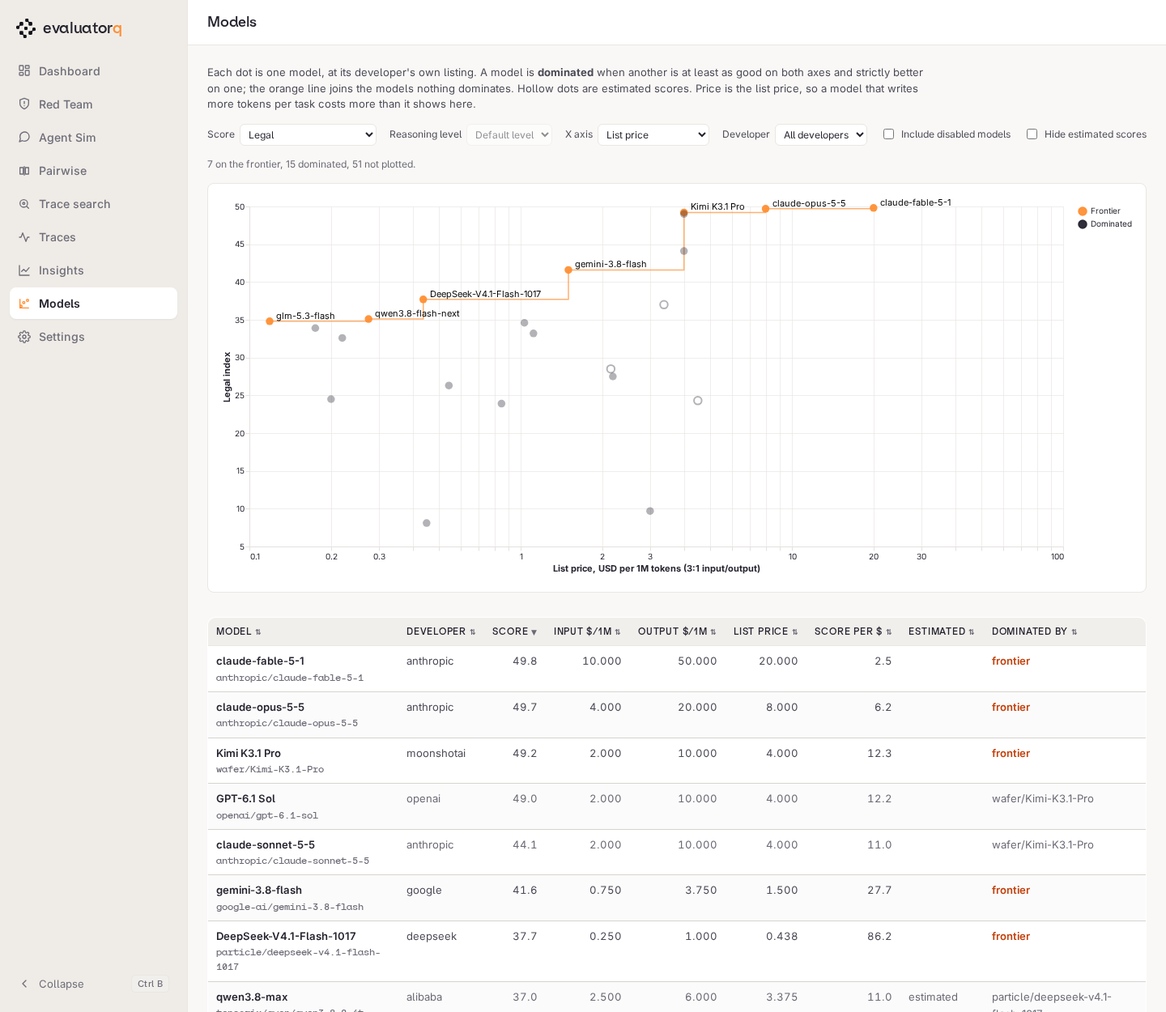
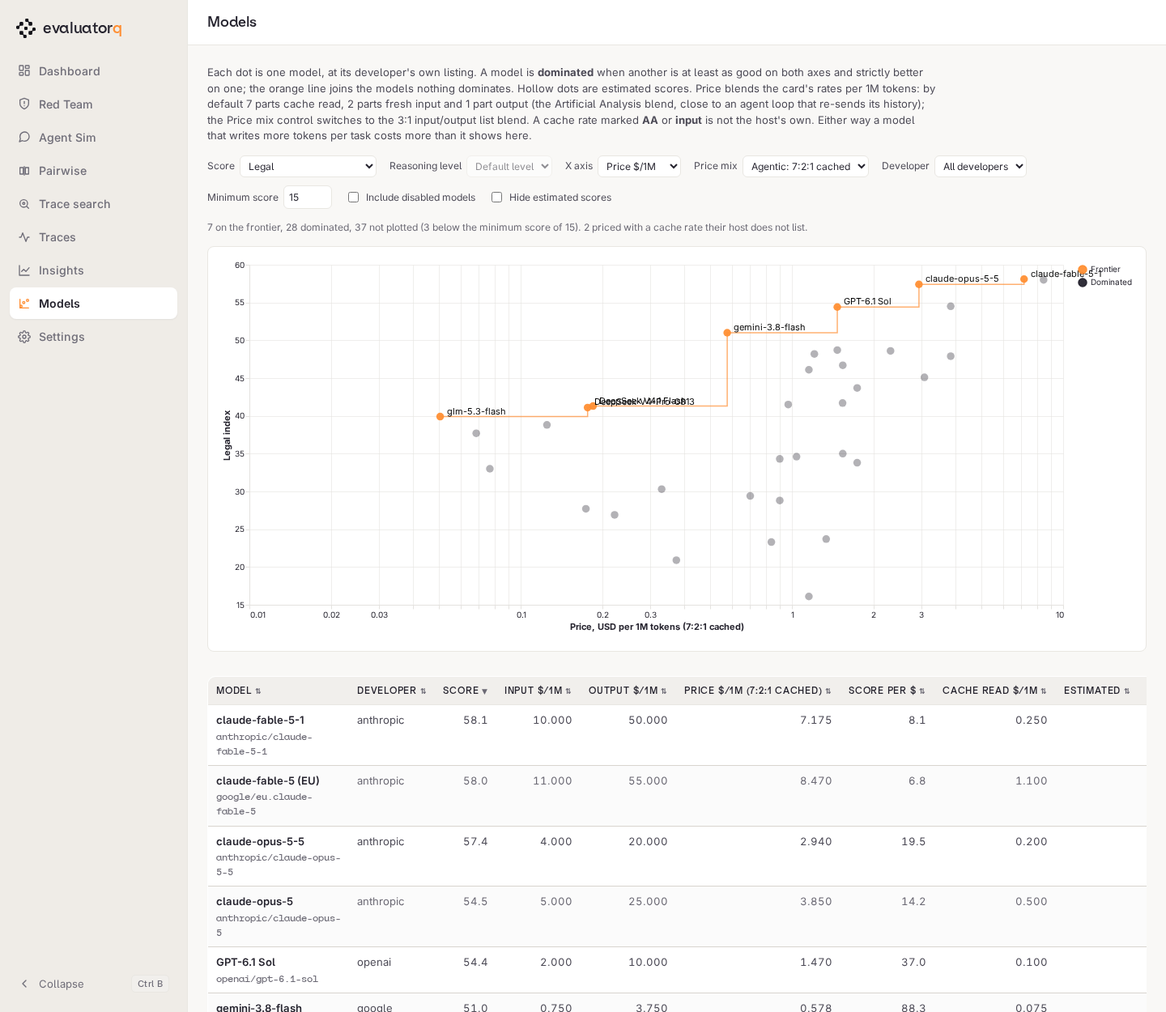
docs: retake Models page screenshots and tighten the Pareto docs
Retake the Models page screenshots on the current defaults (agentic price mix, minimum score 15), add one showing the input fallback tag, and drop the caveat that the screenshots predate the price mix. Refresh the dated CLI outputs and catalogue counts in the Pareto guide to 2026-11-23, replace the dominated-model example that no longer reproduces, correct how the kept listing per model is chosen and which effort domain indices are scored at, and split the dashboard Models section into a controls table with its silent fallbacks named.

diff --git a/docs/model-pareto.md b/docs/model-pareto.md
@@ -31,31 +31,28 @@ The scores are Artificial Analysis (AA) benchmark indices that Orq attaches to e
         print(f"{point.model.router_id} is beaten by {point.dominated_by}")
     ```
 
-The CLI run on 2026-11-20 printed:
+The CLI run on 2026-11-23 printed:
 
 ```console
 $ eq models pareto
-                               Pareto frontier: intelligence index (default effort) vs price
-╭───────────────────────────────────┬───────┬───────────────────────────┬─────────────┬─────────────────┬──────┬──────────╮
-│ Model                             │ Score │ Price $/1M (7:2:1 cached) │ Score per $ │ Cache read $/1M │ Est. │ Frontier │
-├───────────────────────────────────┼───────┼───────────────────────────┼─────────────┼─────────────────┼──────┼──────────┤
-│ anthropic/claude-opus-5-5         │  48.2 │                     2.940 │        16.4 │           0.200 │      │ yes      │
-│ wafer/Kimi-K3.1-Pro               │  46.5 │                     1.540 │        30.2 │           0.200 │      │ yes      │
-│ openai/gpt-6.1-sol                │  46.3 │                     1.470 │        31.5 │           0.100 │      │ yes      │
-│ particle/deepseek-v4.1-flash-1017 │  32.6 │                     0.171 │       190.6 │           0.030 │      │ yes      │
-│ deepseek/deepseek-flash           │  28.6 │                     0.058 │       493.4 │           0.003 │      │ yes      │
-│ zai/glm-5.3-flash                 │  27.8 │                     0.051 │       550.5 │           0.015 │      │ yes      │
-╰───────────────────────────────────┴───────┴───────────────────────────┴─────────────┴─────────────────┴──────┴──────────╯
+                           Pareto frontier: intelligence index (default effort) vs price
+╭───────────────────────────┬───────┬───────────────────────────┬─────────────┬─────────────────┬──────┬──────────╮
+│ Model                     │ Score │ Price $/1M (7:2:1 cached) │ Score per $ │ Cache read $/1M │ Est. │ Frontier │
+├───────────────────────────┼───────┼───────────────────────────┼─────────────┼─────────────────┼──────┼──────────┤
+│ anthropic/claude-opus-5-5 │  51.2 │                     2.940 │        17.4 │           0.200 │      │ yes      │
+│ openai/gpt-6.1-sol        │  47.8 │                     1.470 │        32.5 │           0.100 │      │ yes      │
+│ zai/glm-5.3-flash         │  41.8 │                     0.051 │       827.7 │           0.015 │      │ yes      │
+╰───────────────────────────┴───────┴───────────────────────────┴─────────────┴─────────────────┴──────┴──────────╯
 Price blends the rates per 1M tokens as 7:0:2:1 (cache read : cache write : fresh input : output). Pass --mix list for the 3:1 input/output list blend.
-34 model(s) hidden for scoring below --min-score 15. Pass --min-score 0 to show every model.
-4 model(s) not compared: no value on one of the axes, or filtered out. Use --json for the reason per model.
+16 model(s) hidden for scoring below --min-score 15. Pass --min-score 0 to show every model.
+5 model(s) not compared: no value on one of the axes, or filtered out. Use --json for the reason per model.
 ```
 
-Read the table from the top down: each row is cheaper than the one above it and scores lower. Price is a blend that assumes most input tokens are cache reads, which is what an agent loop looks like; [The price axis](#the-price-axis) explains it and how to switch to the plain 3:1 list blend. `Cache read $/1M` is the cache-read rate the blend used. `Score per $` is the score divided by the price. `Est.` marks a score that Orq estimated from an older benchmark version instead of measuring.
+Read the table from the top down: each row is cheaper than the one above it and scores lower. Price is the `agentic` blend, which assumes most input tokens are cache reads, as in an agent loop. As a `--mix` ratio it is `7:0:2:1`, because the ratio has a cache-write slot second; [The price axis](#the-price-axis) explains the blend and how to switch to the 3:1 list blend. `Cache read $/1M` is the cache-read rate the blend used. Pick from these rows: a dominated model is never the better choice on these two axes, and `--dominated` lists each one with the frontier model that beats it. `Est.` marks a score that Orq estimated from an older benchmark version instead of measuring.
 
 ## The quality floor
 
-Models scoring below 15 are left out before the frontier is drawn. Without the floor, the cheap end of the frontier holds models that are there only because nothing is cheaper: with the floor off and the 3:1 list blend, the frontier adds `tensorix/qwen/qwen3-coder-30b-a3b-instruct` at a score of 2.7 and $0.107 per 1M tokens. 15 is the same floor evaluatorq uses when it picks default models for its own roles, `MIN_SEAT_INDEX`.
+Models scoring below 15 are left out before the frontier is drawn. Without the floor, the cheap end of the frontier can hold models that are there only because nothing is cheaper: on 2026-11-23, with the floor off and the 3:1 list blend, the frontier adds `tensorix/qwen/qwen3-coder-30b-a3b-instruct` at a score of 9.6 and $0.107 per 1M tokens. On the default blend the same day, the frontier was the same three models with or without the floor, so there the floor only removed dominated models from `--dominated`, `--json` and the dashboard chart. 15 is the same floor evaluatorq uses when it picks default models for its own roles, `MIN_SEAT_INDEX`.
 
 Set the floor with `--min-score` or `min_score=`. `--min-score 0` or `min_score=None` shows every model:
 
@@ -82,17 +79,15 @@ $ eq models pareto --min-score 0 --mix list
 ╭────────────────────────────────────────────┬───────┬───────────────────────┬─────────────┬──────┬──────────╮
 │ Model                                      │ Score │ Price $/1M (3:1 list) │ Score per $ │ Est. │ Frontier │
 ├────────────────────────────────────────────┼───────┼───────────────────────┼─────────────┼──────┼──────────┤
-│ anthropic/claude-opus-5-5                  │  48.2 │                 8.000 │         6.0 │      │ yes      │
-│ wafer/Kimi-K3.1-Pro                        │  46.5 │                 4.000 │        11.6 │      │ yes      │
-│ particle/deepseek-v4.1-flash-1017          │  32.6 │                 0.438 │        74.5 │      │ yes      │
-│ deepseek/deepseek-flash                    │  28.6 │                 0.175 │       163.4 │      │ yes      │
-│ zai/glm-5.3-flash                          │  27.8 │                 0.119 │       234.1 │      │ yes      │
-│ tensorix/qwen/qwen3-coder-30b-a3b-instruct │   2.7 │                 0.107 │        25.1 │ yes  │ yes      │
+│ anthropic/claude-opus-5-5                  │  51.2 │                 8.000 │         6.4 │      │ yes      │
+│ openai/gpt-6.1-sol                         │  47.8 │                 4.000 │        11.9 │      │ yes      │
+│ zai/glm-5.3-flash                          │  41.8 │                 0.119 │       352.0 │      │ yes      │
+│ tensorix/qwen/qwen3-coder-30b-a3b-instruct │   9.6 │                 0.107 │        89.3 │      │ yes      │
 ╰────────────────────────────────────────────┴───────┴───────────────────────┴─────────────┴──────┴──────────╯
-4 model(s) not compared: no value on one of the axes, or filtered out. Use --json for the reason per model.
+5 model(s) not compared: no value on one of the axes, or filtered out. Use --json for the reason per model.
 ```
 
-The floor applies to whichever score you put on the y axis, so with `--index legal` it compares legal scores against 15. The domain indices use the same 0 to 100 scale, but AA scores fewer and mostly stronger models on them, so the floor removes fewer: on 2026-11-20 it left out 2 of the 22 models compared on legal, against 34 of the 69 compared on intelligence. The floor does not change which of the remaining models are on the frontier, because a model that beats another one scores at least as high and so clears the floor too.
+The floor applies to whichever score you put on the y axis, so with `--index legal` it compares legal scores against 15. The domain indices use the same 0 to 100 scale, but AA scores fewer and mostly stronger models on them, so the floor removes fewer: on 2026-11-23, after one listing per model, it left out 3 of the 38 models with a legal score and a price, against 16 of the 67 with an intelligence score and a price. The floor does not change which of the remaining models are on the frontier, because a model that beats another one scores at least as high and so clears the floor too.
 
 ## Is my model dominated?
 
@@ -101,7 +96,7 @@ The floor applies to whichever score you put on the y axis, so with `--index leg
 === "CLI"
 
     ```bash
-    eq models pareto --model gpt-6.1-sol --mix list
+    eq models pareto --model claude-sonnet-5-5
     ```
 
 === "Python"
@@ -112,35 +107,36 @@ The floor applies to whichever score you put on the y axis, so with `--index leg
     from evaluatorq.models import dominated_by, find_model, load_models
 
     models = asyncio.run(load_models())
-    mine = find_model(models, model_id="gpt-6.1-sol")
+    mine = find_model(models, model_id="claude-sonnet-5-5")
     if mine is None:
         raise SystemExit("unknown id, or held by more than one host")
-    winner = dominated_by(mine, models, mix="list")
+    winner = dominated_by(mine, models)
     print(winner.router_id if winner else "on the frontier")
     ```
 
 ```console
-$ eq models pareto --model gpt-6.1-sol --mix list
-                 Dominated models: intelligence index (default effort) vs price
-╭────────────────────┬───────┬───────────────────────┬─────────────┬──────┬─────────────────────╮
-│ Model              │ Score │ Price $/1M (3:1 list) │ Score per $ │ Est. │ Dominated by        │
-├────────────────────┼───────┼───────────────────────┼─────────────┼──────┼─────────────────────┤
-│ openai/gpt-6.1-sol │  46.3 │                 4.000 │        11.6 │      │ wafer/Kimi-K3.1-Pro │
-╰────────────────────┴───────┴───────────────────────┴─────────────┴──────┴─────────────────────╯
-34 model(s) hidden for scoring below --min-score 15. Pass --min-score 0 to show every model.
-4 model(s) not compared: no value on one of the axes, or filtered out. Use --json for the reason per model.
+$ eq models pareto --model claude-sonnet-5-5
+                                Dominated models: intelligence index (default effort) vs price
+╭─────────────────────────────┬───────┬───────────────────────────┬─────────────┬─────────────────┬──────┬────────────────────╮
+│ Model                       │ Score │ Price $/1M (7:2:1 cached) │ Score per $ │ Cache read $/1M │ Est. │ Dominated by       │
+├─────────────────────────────┼───────┼───────────────────────────┼─────────────┼─────────────────┼──────┼────────────────────┤
+│ anthropic/claude-sonnet-5-5 │  46.8 │                     1.470 │        31.8 │           0.100 │      │ openai/gpt-6.1-sol │
+╰─────────────────────────────┴───────┴───────────────────────────┴─────────────┴─────────────────┴──────┴────────────────────╯
+Price blends the rates per 1M tokens as 7:0:2:1 (cache read : cache write : fresh input : output). Pass --mix list for the 3:1 input/output list blend.
+16 model(s) hidden for scoring below --min-score 15. Pass --min-score 0 to show every model.
+5 model(s) not compared: no value on one of the axes, or filtered out. Use --json for the reason per model.
 ```
 
-The model named under `Dominated by` is the frontier model that beats yours at the lowest price. Here it wins by 0.2 points at the same list price. On the default cache-aware blend the answer flips: GPT-6.1 Sol's cache reads cost 5% of its input rate against 10% for Kimi K3.1 Pro on `wafer`, so it is $1.470 against $1.540 and back on the frontier. Which blend you read decides the verdict, so pick the one that matches how you call the model. Dominance has no margin: any difference counts, so a model can be dominated by a score gap smaller than the benchmark's own noise. Check the gap before you switch.
+The model named under `Dominated by` is the frontier model that beats yours at the lowest price. Here GPT-6.1 Sol scores 1.0 point higher at the same price, $1.470 on the default blend and $4.000 on the list blend. The verdict can change with the blend, because two models with the same list price can have different cache-read rates, so run `--model` under the mix that matches how you call the model. Dominance has no margin: any difference counts, so a model can be dominated by a score gap smaller than the benchmark's own noise. A 1.0-point gap, as here, may be that case. Check the gap before you switch.
 
 The flags combine. To ask the same question on the legal index and get JSON for a script:
 
 ```bash
-eq models pareto --model gpt-6.1-sol --index legal --json
+eq models pareto --model claude-sonnet-5-5 --index legal --json
 ```
 
 ```console
-$ eq models pareto --model gpt-6.1-sol --index legal --json 2>/dev/null
+$ eq models pareto --model claude-sonnet-5-5 --index legal --json 2>/dev/null
 {
   "index": "legal",
   "effort": null,
@@ -150,30 +146,30 @@ $ eq models pareto --model gpt-6.1-sol --index legal --json 2>/dev/null
   "min_score": 15.0,
   "points": [
     {
-      "router_id": "openai/gpt-6.1-sol",
-      "score": 49.0,
+      "router_id": "anthropic/claude-sonnet-5-5",
+      "score": 48.7,
       "x": 1.47,
-      "pareto_score": 33.333333333333336,
-      "on_frontier": true,
-      "dominated_by": null,
-      "dominators": [],
+      "pareto_score": 33.12925170068027,
+      "on_frontier": false,
+      "dominated_by": "google-ai/gemini-3.8-flash",
+      "dominators": ["google-ai/gemini-3.8-flash", "openai/gpt-6.1-sol"],
       "cache_read_source": "host",
       "cache_write_source": null
     }
   ],
   "excluded": [
     {"router_id": "alibaba/qwen3.5-27b", "reason": "no legal score", "below_min_score": false},
-    {"router_id": "cerebras/gpt-oss-120b", "reason": "score 8.1 is below min_score 15", "below_min_score": true}
+    {"router_id": "cerebras/gpt-oss-120b", "reason": "score 11.3 is below min_score 15", "below_min_score": true}
   ],
   "left_out_by_provider": 0
 }
 ```
 
-The output above is trimmed: each point also carries every `ScoredModel` field (prices including `cache_read_price` and `aa_cache_read_price`, developer, effort ladder, domain scores, speed and latency) and `price`, which is always the 3:1 list blend whatever `mix` says, and `excluded` lists every model left out, with `below_min_score` set on the ones the quality floor removed. The JSON lists only the models you asked for; `dominators` names the winners but does not carry their scores. Run without `--model` to see the winner's row. Log lines go to stderr, so `2>/dev/null` leaves clean JSON on stdout.
+Read `x` for the blended price. Each point also carries a `price` field, and `price` is always the 3:1 list blend whatever `mix` says. The output above is trimmed: each point also carries every `ScoredModel` field (prices including `cache_read_price` and `aa_cache_read_price`, developer, effort ladder, domain scores, speed and latency), and `excluded` lists every model left out, with `below_min_score` set on the ones the quality floor removed. The JSON lists only the models you asked for; `dominators` names the winners but does not carry their scores. Run without `--model` to see the winner's row. Log lines go to stderr, so `2>/dev/null` leaves clean JSON on stdout.
 
-A model below the floor is not compared, so `--model` with it prints `<id> is not plotted: score <n> is below min_score 15.` on stderr; add `--min-score 0` to compare it. `dominated_by()` in Python applies no floor.
+A model below the floor is not compared, so `--model` with it prints `<id> is not plotted: score <n> is below min_score 15.` on stderr and `No models on the frontier for these filters.` on stdout; add `--min-score 0` to compare it. `dominated_by()` in Python applies no floor.
 
-A bare id such as `gpt-6.1-sol` must match exactly one model; otherwise the CLI exits `2` and `find_model` returns `None`. `--model` only sees the one listing kept per model (see [One dot per model](#one-dot-per-model)), so the full id of a host that was not kept also exits `2`. Comparing a specific host is Python-only, through `load_models(all_hosts=True)`.
+A bare id such as `gpt-6.1-sol` must match exactly one model; otherwise the CLI exits `2` and `find_model` returns `None`. A bare id works only for a two-part id such as `openai/gpt-6.1-sol`: for a three-part id such as `tensorix/qwen/qwen3-coder-30b-a3b-instruct`, pass the full id. `--model` only sees the one listing kept per model (see [One dot per model](#one-dot-per-model)), so the full id of a host that was not kept also exits `2`. Comparing a specific host is Python-only, through `load_models(all_hosts=True)`.
 
 ## Choosing the axes
 
@@ -193,7 +189,7 @@ eq models pareto --effort high --x output_speed --no-estimate
 
 `price` blends the card's rates per million tokens under `--mix` (see [The price axis](#the-price-axis)). `output_speed` is AA's median output tokens per second, and `time_to_first_token` is AA's median seconds to the first token.
 
-A domain index covers only the models AA has scored on it (25 of 73 for `legal` on 2026-11-20), and only at each model's default effort, so `--index legal --effort high` is refused. Fewer scored models also means fewer competitors: on 2026-11-20 at the default floor, a model on `legal` was compared against 19 others, against 34 on `intelligence`. Under `--effort`, models that list no score at that effort drop out of the comparison.
+A domain index covers only the models AA has scored on it (38 of the 72 models kept for `legal` on 2026-11-23, against 67 for `intelligence`), and only at one effort per model, the one Artificial Analysis benchmarked, which for some reasoning models is higher than the effort a call uses by default. `--index legal --effort high` is therefore refused. Under `--effort`, models that list no score at that effort drop out of the comparison.
 
 The CLI refuses an index or an effort that no loaded model has a score on and exits `2`, and the dashboard lists only the indices and efforts some model has. `pareto()` in Python accepts them and lists every model under `excluded`.
 
@@ -208,6 +204,8 @@ The price axis is a weighted average of a card's rates per million tokens. `--mi
 | `READ:WRITE:FRESH:OUTPUT`, such as `7:1:1:1` | (R × cache read + W × cache write + F × input + O × output) / (R + W + F + O) | `Price $/1M (7:1:1:1)` | You know your own token mix, or your provider charges for cache writes |
 
 `agentic` is the blend [Artificial Analysis](https://artificialanalysis.ai/methodology) publishes: "we calculate a blended price assuming a 7:2:1 ratio of cache hit, input, and output tokens". It is the default because an agent loop sends its whole history again on every turn, and the provider serves most of that history from its prompt cache at a fraction of the input rate. Measured agent workloads cache more than 70% of input: 72% to 82% of all input on one gateway across twelve weeks ([Requesty](https://www.requesty.ai/data/weekly/2026-w46/prompt-cache)), 92% for Claude Code on the same gateway ([Requesty, April 2026](https://www.requesty.ai/data/coding-agent-cache-hit-rate-apr-2026)), 92% in [Bun's Rust rewrite](https://bun.com/blog/bun-in-rust), and 96% in a study of Claude Code repairing multi-hunk bugs ([arXiv 2511.11012](https://arxiv.org/html/2511.11012)). The 3:1 list blend prices every one of those re-sent tokens at the full input rate, so it overstates what an agent pays and hides which models have cheap cache reads.
+
+In those terms, 7:2:1 means 78% of input tokens are cache reads and output is 10% of all tokens. For your own cache-hit rate `h`, the matching ratio is `9h:0:9(1-h):1`; at 90% that is `--mix 8.1:0:0.9:1`.
 
 === "CLI"
 
@@ -229,25 +227,22 @@ The price axis is a weighted average of a card's rates per million tokens. `--mi
         print(result.x_spec.short_label, [p.model.router_id for p in result.frontier])
     ```
 
-A mix with a write share adds a `Cache write $/1M` column. On 2026-11-20 it printed:
+A mix with a write share adds a `Cache write $/1M` column. On 2026-11-23 it printed:
 
 ```console
 $ eq models pareto --mix 7:1:1:1
                                   Pareto frontier: intelligence index (default effort) vs price
-╭────────────────────────────┬───────┬──────────────────────┬─────────────┬─────────────────┬──────────────────┬──────┬──────────╮
-│ Model                      │ Score │ Price $/1M (7:1:1:1) │ Score per $ │ Cache read $/1M │ Cache write $/1M │ Est. │ Frontier │
-├────────────────────────────┼───────┼──────────────────────┼─────────────┼─────────────────┼──────────────────┼──────┼──────────┤
-│ anthropic/claude-opus-5-5  │  48.2 │                3.040 │        15.9 │           0.200 │            5.000 │      │ yes      │
-│ wafer/Kimi-K3.1-Pro        │  46.5 │                1.540 │        30.2 │           0.200 │    2.000 (input) │      │ yes      │
-│ openai/gpt-6.1-sol         │  46.3 │                1.520 │        30.5 │           0.100 │            2.500 │      │ yes      │
-│ particle/deepseek-v4.1-fl… │  32.6 │                0.171 │       190.6 │           0.030 │    0.250 (input) │      │ yes      │
-│ deepseek/deepseek-flash    │  28.6 │                0.058 │       493.4 │           0.003 │    0.140 (input) │      │ yes      │
-│ zai/glm-5.3-flash          │  27.8 │                0.051 │       550.5 │           0.015 │    0.075 (input) │      │ yes      │
-╰────────────────────────────┴───────┴──────────────────────┴─────────────┴─────────────────┴──────────────────┴──────┴──────────╯
+╭───────────────────────────┬───────┬──────────────────────┬─────────────┬─────────────────┬──────────────────┬──────┬──────────╮
+│ Model                     │ Score │ Price $/1M (7:1:1:1) │ Score per $ │ Cache read $/1M │ Cache write $/1M │ Est. │ Frontier │
+├───────────────────────────┼───────┼──────────────────────┼─────────────┼─────────────────┼──────────────────┼──────┼──────────┤
+│ anthropic/claude-opus-5-5 │  51.2 │                3.040 │        16.8 │           0.200 │            5.000 │      │ yes      │
+│ openai/gpt-6.1-sol        │  47.8 │                1.520 │        31.4 │           0.100 │            2.500 │      │ yes      │
+│ zai/glm-5.3-flash         │  41.8 │                0.051 │       827.7 │           0.015 │    0.075 (input) │      │ yes      │
+╰───────────────────────────┴───────┴──────────────────────┴─────────────┴─────────────────┴──────────────────┴──────┴──────────╯
 Price blends the rates per 1M tokens as 7:1:1:1 (cache read : cache write : fresh input : output). Pass --mix list for the 3:1 input/output list blend.
-4 shown model(s) price a cache rate their host does not list: (AA) is the Artificial Analysis price on the same card, (input) bills those tokens at the input rate.
-34 model(s) hidden for scoring below --min-score 15. Pass --min-score 0 to show every model.
-4 model(s) not compared: no value on one of the axes, or filtered out. Use --json for the reason per model.
+1 shown model(s) price a cache rate their host does not list: (AA) is the Artificial Analysis price on the same card, (input) bills those tokens at the input rate.
+16 model(s) hidden for scoring below --min-score 15. Pass --min-score 0 to show every model.
+5 model(s) not compared: no value on one of the axes, or filtered out. Use --json for the reason per model.
 ```
 
 The ratio `7:0:2:1` is the `agentic` blend and `0:0:3:1` is the `list` blend, so either spelling gets the named label. Every price blend is relabelled, in the table header, the dashboard axis and `x_label` in `--json`, so a number never appears without the blend it was computed under.
@@ -262,22 +257,22 @@ A host that lists no cache-read rate is priced from the next source on the same 
 | The Artificial Analysis cache price on the same card | `(AA)` | `artificial_analysis` | The developer's own or the median price across hosts, capped at this host's input rate |
 | Neither | `(input)` | `input` | The input rate, as if the host gave no discount; this is also what a run's reported cost bills |
 
-A cache-write share uses the host's cache-write rate, else the input rate, marked the same way in `cache_write_source`. The table footer counts the marked rows, and `ParetoResult.price_fallbacks` lists them in Python:
+A cache-write share uses the host's cache-write rate, else the input rate, marked the same way in `cache_write_source`. The marker sits on the cell it applies to: in the `7:1:1:1` output above, `0.075 (input)` is in the `Cache write $/1M` column, so `zai/glm-5.3-flash`'s cache-read rate is its host's own. The table footer counts the marked rows, and `ParetoResult.price_fallbacks` lists them in Python:
 
 ```console
 $ eq models pareto --provider azure --min-score 0
-                      Pareto frontier: intelligence index (default effort) vs price
-╭──────────────────┬───────┬───────────────────────────┬─────────────┬─────────────────┬──────┬──────────╮
-│ Model            │ Score │ Price $/1M (7:2:1 cached) │ Score per $ │ Cache read $/1M │ Est. │ Frontier │
-├──────────────────┼───────┼───────────────────────────┼─────────────┼─────────────────┼──────┼──────────┤
-│ azure/gpt-5-mini │   9.3 │                     0.267 │        34.8 │      0.025 (AA) │ yes  │ yes      │
-╰──────────────────┴───────┴───────────────────────────┴─────────────┴─────────────────┴──────┴──────────╯
+                     Pareto frontier: intelligence index (default effort) vs price
+╭───────────────┬───────┬───────────────────────────┬─────────────┬─────────────────┬──────┬──────────╮
+│ Model         │ Score │ Price $/1M (7:2:1 cached) │ Score per $ │ Cache read $/1M │ Est. │ Frontier │
+├───────────────┼───────┼───────────────────────────┼─────────────┼─────────────────┼──────┼──────────┤
+│ azure/gpt-4.1 │  12.7 │                     1.550 │         8.2 │      0.500 (AA) │      │ yes      │
+╰───────────────┴───────┴───────────────────────────┴─────────────┴─────────────────┴──────┴──────────╯
 Price blends the rates per 1M tokens as 7:0:2:1 (cache read : cache write : fresh input : output). Pass --mix list for the 3:1 input/output list blend.
 1 shown model(s) price a cache rate their host does not list: (AA) is the Artificial Analysis price on the same card, (input) bills those tokens at the input rate.
 70 model(s) from other providers left out by --provider.
 ```
 
-On 2026-11-20, 106 of the 119 priced models with a score list their own cache-read rate, 7 fall back to the Artificial Analysis price and 6 to the input rate. With one listing per model and the default floor, none of the plotted models falls back. A missing rate is often a catalogue gap rather than a real price: Azure OpenAI does discount cached input, but its cards list no cache rate.
+On 2026-11-23, across every host, 108 of the 119 listings with a price and an intelligence score list their own cache-read rate, 6 fall back to the Artificial Analysis price and 5 to the input rate. With one listing per model and the default floor, 4 of the 51 compared models fall back on the cache-read rate, all to the input rate, and all of them Qwen models; the CLI footer counts only the rows it prints, while the dashboard summary counts every plotted model. A missing rate is often a catalogue gap rather than a real price: Azure OpenAI does discount cached input, but its cards list no cache rate.
 
 ### What the blend cannot see
 
@@ -288,12 +283,12 @@ Each of these makes the `agentic` price wrong for some workloads, and none of th
 - **Anthropic caches only what you mark.** Without `cache_control` breakpoints (or Anthropic's automatic top-level one), a Claude call pays full input on every turn. OpenAI, Gemini 2.5 and newer, and DeepSeek cache automatically.
 - **Cache writes cost extra on some providers.** Anthropic bills a 5-minute cache write at 1.25 times the input rate and a 1-hour write at 2 times; the default blend has no write share. Use a ratio with one, such as `7:1:1:1`, for a write-heavy loop.
 - **Gemini's cache-write rate is a storage price.** On about 13 Gemini cards the catalogue's cache-write field holds Google's hourly storage price per million tokens, not a per-token write charge, so any mix with a write share overprices those models. The default mix has no write share and is not affected.
-- **Hosts of the same model price caching differently.** Kimi K3.1 Pro costs $0.20 per million cache reads on `wafer`, and `berget` lists no cache rate at all, so the frontier can pick a host and not only a model.
-- **Off-peak and long-context rates are ignored.** DeepSeek halves its rates off-peak, and some providers charge more above 200k tokens; the blend reads only the standard rate.
+- **Hosts of the same model price caching differently, and the kept listing ignores the cache rate.** On 2026-11-23, `gpt-oss-120b` cost $0.35 per million cache reads on `cerebras` against $0.075 on `groq`, so $0.390 against $0.143 on the default blend, yet the CLI and the dashboard keep the `cerebras` listing because the catalogue names `cerebras` as that card's developer (see [One dot per model](#one-dot-per-model)). Compare hosts in Python with `load_models(all_hosts=True)`.
+- **Time-of-day and long-context rates are averaged or ignored.** DeepSeek V4 Pro and DeepSeek Flash bill a peak rate on weekday UTC hours and half that otherwise; the blend uses the mean of the two, so a workload that runs entirely off-peak pays less than it shows. Some providers charge more above 200k tokens, and the blend reads only the standard rate.
 
 ## One dot per model
 
-The catalogue lists the same model several times, once per host and region. `load_models()` keeps one listing per model: the developer's own listing when there is one, otherwise the cheapest host, preferring non-regional ones. `load_models(all_hosts=True)` keeps every listing, which is how you compare hosts of one model against each other.
+The catalogue lists the same model several times, once per host and region. `load_models()` keeps one listing per model: the developer's own listing when there is one; otherwise a listing without a region before a regional one, and then the cheapest 3:1 list price, whatever `--mix` says. The cache rate plays no part in the choice. `load_models(all_hosts=True)` keeps every listing, which is how you compare hosts of one model against each other.
 
 Models switched off in your workspace are left out. Pass `--include-disabled` or `include_disabled=True` to compare them as well.
 

diff --git a/docs/cli-reference/models.md b/docs/cli-reference/models.md
@@ -1,8 +1,8 @@
 # Models (`eq models`)
 
-`eq models pareto` compares the models in the Orq catalogue on a score against a cost and prints the ones nothing beats, or the ones that are beaten and by what. It reads the live catalogue, so it needs `ORQ_API_KEY` or an Orq CLI sign-in.
+`eq models pareto` compares the models in the Orq catalogue on a score against a cost and prints the ones nothing beats, or the ones that are beaten and by what. It reads the live catalogue, so it needs `ORQ_API_KEY` or an Orq CLI sign-in. Reach for it to rule models out before you test the rest on your own task; it does not pick among the frontier models.
 
-For what the frontier means, how to read the output and where a blended price misleads, see [Model Pareto frontier](../model-pareto.md). This page covers the command only. To list catalogue models, use `orq models list`; evaluatorq does not duplicate it.
+For what the frontier means, how to read the output and where a blended price misleads, see [Model Pareto frontier](../model-pareto.md). To list catalogue models, use `orq models list`; evaluatorq does not duplicate it.
 
 ```bash
 eq models pareto [OPTIONS]
@@ -12,17 +12,19 @@ eq models pareto [OPTIONS]
 |---|---|---|
 | `--dominated` | `bool` / `false` | List dominated models and the frontier model that beats each, instead of the frontier. |
 | `--provider` | `str` (repeatable) | Compare only models from this provider or developer, such as `openai`. Case and an `-ai` suffix are ignored, so `google` also matches `google-ai`. |
-| `--model` | `str` (repeatable) | Show only this model, compared against every other model in the comparison. A `provider/model` id, or a bare id held by exactly one model, looked up in the whole catalogue. Shown whether it is on the frontier or not. |
+| `--model` | `str` (repeatable) | Show only this model, compared against every other model in the comparison. A `provider/model` id, or a bare id held by exactly one model, looked up among the one listing kept per model before `--provider` filters. A three-part id such as `tensorix/qwen/qwen3-coder-30b-a3b-instruct` needs the full id. Shown whether it is on the frontier or not. |
 | `--effort` | `str` / none | Score the intelligence index at this reasoning effort instead of each model's default. Only with `--index intelligence`, and only an effort at least one catalogue model has a score at. |
 | `--index` | `str` / `intelligence` | The y axis: `intelligence`, `economics`, `engineering`, `finance_and_accounting`, `healthcare_and_medical`, `legal` or `strategy_and_ops`. An index no catalogue model has a score on is refused. |
 | `--x` | `str` / `price` | The x axis: `price` (blended price per million tokens, see `--mix`), `output_speed` or `time_to_first_token`. |
-| `--mix` | `str` / `agentic` | How `--x price` blends a card's rates. `agentic`: 7 cache read : 2 fresh input : 1 output, the Artificial Analysis blend. `list`: 3 input : 1 output. Or a `READ:WRITE:FRESH:OUTPUT` ratio such as `7:1:1:1`. A share with a positive read or write weight adds a `Cache read $/1M` or `Cache write $/1M` column, where `(AA)` marks the Artificial Analysis price used because the host lists none and `(input)` marks the input rate used because the card has no cache price. Refused with any other `--x`. |
+| `--mix` | `str` / `agentic` | How `--x price` blends a card's rates. `agentic`: 7 cache read : 2 fresh input : 1 output, the Artificial Analysis blend, which is `7:0:2:1` as a ratio. `list`: 3 input : 1 output. Or a `READ:WRITE:FRESH:OUTPUT` ratio such as `7:1:1:1`. A share with a positive read or write weight adds a `Cache read $/1M` or `Cache write $/1M` column, where `(AA)` marks the Artificial Analysis price used because the host lists none and `(input)` marks the input rate used because the card has no cache price. Refused with any other `--x`. |
 | `--include-disabled` | `bool` / `false` | Include models switched off in the workspace. |
 | `--no-estimate` | `bool` / `false` | Leave out models whose score Orq estimated rather than measured. |
 | `--min-score` | `float` / `15` | Hide models scoring below this on the chosen index; they are listed under `excluded` with the reason `score <n> is below min_score <floor>`. `0` shows every model. Must be `0` or more. |
-| `--json` | `bool` / `false` | Print `{index, effort, x, x_label, mix, min_score, points, excluded, left_out_by_provider}` as JSON on stdout. `mix` is `null` off the price axis; each point carries `cache_read_source` and `cache_write_source` (`host`, `artificial_analysis`, `input`, or `null` when the mix has no share of that kind). |
+| `--json` | `bool` / `false` | Print `{index, effort, x, x_label, mix, min_score, points, excluded, left_out_by_provider}` as JSON on stdout. `points` holds the rows the table would print: the frontier, the dominated models with `--dominated`, or the `--model` matches; `excluded` lists every model left out. Read `x` for the plotted value: a point's `price` is always the 3:1 list blend. `mix` is `null` off the price axis; each point carries `cache_read_source` (`host`, `artificial_analysis` or `input`) and `cache_write_source` (`host` or `input`), each `null` when the mix has no share of that kind. |
 
 `--provider` narrows the comparison itself: a model is then only checked against models from the same providers, so a model dominated in the full catalogue can be on the frontier of a filtered one. `--model` does the opposite: it narrows only what is printed. With both, the named model joins the comparison even when `--provider` would leave it out, and the output counts the models `--provider` left out.
+
+The table fits the terminal width, so a narrow terminal or a non-interactive shell cuts model ids short with `…`. Set `COLUMNS=200` or use `--json` in a script.
 
 ## Examples
 
@@ -56,6 +58,6 @@ eq models pareto --effort high --x output_speed --no-estimate
 
 | Code | Meaning |
 |---|---|
-| `0` | The analysis ran. An empty result is still `0`: a `--model` match left out of the comparison prints `<id> is not plotted: <reason>.` on stderr and an empty table. |
+| `0` | The analysis ran. An empty result is still `0`: a `--model` match left out of the comparison prints `<id> is not plotted: <reason>.` on stderr and `No models on the frontier for these filters.` (`No models dominated for these filters.` with `--dominated`) on stdout. |
 | `1` | The catalogue could not be read: no Orq credentials, or the request failed. |
 | `2` | A usage error: an unknown `--index`, `--x` or `--mix`, `--mix` with an `--x` other than `price`, an `--index` no catalogue model has a score on, an `--effort` no catalogue model has a score at, `--effort` with a domain index, or a `--model` that matches no model or more than one, or a negative or non-finite `--min-score`. |

diff --git a/docs/dashboard.md b/docs/dashboard.md
@@ -475,13 +475,34 @@ Download links respect the currently active filter state — the CSV/JSON export
 
 The **Models** page plots every model in the Orq catalogue as one dot, score against a blended price, and joins the models nothing beats with an orange line: the Pareto frontier. It reads the live catalogue, so it needs the same Orq account as trace search. Without one, the sidebar item is greyed out and the page says how to connect.
 
-![Models page: intelligence index against list price, frontier in orange](assets/dashboard/models-01-frontier.png)
+![Models page on the default agentic price mix and minimum score of 15: three models on the frontier](assets/dashboard/models-01-frontier.png)
 
-The selects above the chart change the score (intelligence or a domain index such as legal), the reasoning effort, the x axis (price, output speed or time to first token), the price mix and the developer. **Price mix** picks how price blends a card's rates: **Agentic: 7:2:1 cached** (the default; 7 parts cache read, 2 parts fresh input, 1 part output, the Artificial Analysis blend) or **List: 3:1 input/output**. It is greyed out on the other x axes. For your own ratio, add `?mix=7:1:1:1` (cache read : cache write : fresh input : output) to the page address; it appears in the select as **Custom**. The axis title and the table header name the blend in use. On a blend with a cache-read share, the table adds a **Cache read $/1M** column; an **AA** tag marks a rate taken from the Artificial Analysis price because the host lists none, an **input** tag marks a card with no cache price, billed at the input rate, and the summary line counts both. The score and effort selects list only the indices and efforts at least one loaded model has a score on. **Minimum score** hides models scoring below it on the chosen score, 15 by default, and the summary line counts how many it hid; set it to `0` to plot every model. **Include disabled models** adds models switched off in the workspace. Hollow dots are scores Orq estimated rather than measured; **Hide estimated scores** drops them. The table below lists every plotted model with its prices, score per dollar and, for a dominated model, the frontier model that beats it. Click a column header to sort.
+The controls above the chart:
 
-![Models page on the legal index: fewer models carry a score, so most are not plotted](assets/dashboard/models-02-legal.png)
+| Control | What it does | Default |
+|---|---|---|
+| **Score** | Intelligence or a domain index such as legal. Lists only the indices at least one loaded model has a score on. | Intelligence |
+| **Reasoning level** | Scores intelligence at one reasoning effort. Greyed out on a domain index. | Each model's default |
+| **X axis** | Price, output speed or time to first token. | Price |
+| **Price mix** | **Agentic: 7:2:1 cached** (7 parts cache read, 2 parts fresh input, 1 part output) or **List: 3:1 input/output**. Greyed out on the other x axes. | Agentic |
+| **Developer** | Plots one developer's models. | All developers |
+| **Minimum score** | Hides models scoring below it on the chosen score; `0` plots every model. | 15 |
+| **Include disabled models** | Adds models switched off in the workspace. | Off |
+| **Hide estimated scores** | Drops the hollow dots, which are scores Orq estimated rather than measured. | Off |
 
-The screenshots above predate the price mix: they show the 3:1 list blend, without the **Price mix** select or the cache-read column. The page and `eq models pareto` compute the same thing. What the frontier means, how the blend works and where it misleads is in [Model Pareto frontier](model-pareto.md#the-price-axis).
+For your own price ratio, add `?mix=7:1:1:1` (cache read : cache write : fresh input : output) to the page address; it appears in the select as **Custom**. A value the page cannot read, in `?mix=` or `?min_score=`, silently falls back to the default, so check that the axis title names the blend you asked for. The axis title and the table header always name the blend in use.
+
+The summary line under the controls counts the frontier, the dominated models, the models not plotted and how many of those the minimum score hid. Set the minimum score to `0` when a model you expected is missing.
+
+The table below the chart lists every plotted model with its prices, score per dollar and, for a dominated model, the frontier model that beats it. Click a column header to sort. To check one model, find its row: **Dominated by** names the model that beats it, and the page has no single-model view, which `eq models pareto --model` gives. On a blend with a cache-read share it adds a **Cache read $/1M** column. An **AA** tag in that column marks a rate taken from the Artificial Analysis price because the host lists none, and an **input** tag marks a card with no cache price, billed at the input rate. The summary line counts the tagged models, and on a custom mix with a write share the count includes cache-write fallbacks, which the page has no column for. Filtering to the alibaba developer shows Qwen models billed at the input rate; the first two of four are in view below the chart:
+
+![Models page filtered to alibaba: the table tags Qwen cache-read rates with input](assets/dashboard/models-03-fallback.png)
+
+On a domain index such as legal, Artificial Analysis has scored fewer models, so the chart is sparser:
+
+![Models page on the legal index: fewer models carry a legal score, so about half are not plotted](assets/dashboard/models-02-legal.png)
+
+The page and `eq models pareto` compute the same thing. What the frontier means, how the blend works and where it misleads is in [Model Pareto frontier](model-pareto.md#the-price-axis).
 
 ## Where to next
 

diff --git a/docs/assets/dashboard/README.md b/docs/assets/dashboard/README.md
@@ -39,12 +39,13 @@ Older screenshots use `sim:refund-agent-fixed` — 10 personas × 5 scenarios = 
 
 ## Models — `models-*.png`
 
-Captured on 2026-11-20 against the live Orq catalogue (73 models after keeping one listing per model), 1440×1250, light theme, headless Chromium.
+Captured on 2026-11-23 against the live Orq catalogue (72 models after keeping one listing per model), 1440×1250 viewport, top of the page, light theme, headless Chromium, with `eq dashboard` on the branch's defaults: agentic price mix (7:2:1 cached), minimum score 15.
 
 | File | Page |
 |---|---|
-| `models-01-frontier.png` | Models — intelligence index against list price, frontier line, table sorted by score |
-| `models-02-legal.png` | Models — the legal index, where most models have no score and are not plotted |
+| `models-01-frontier.png` | Models (`/models`) — intelligence index against the agentic blended price, frontier line, the Price mix and Minimum score controls, table sorted by score with the cache-read column |
+| `models-02-legal.png` | Models (`/models?index=legal`) — the legal index, where about half the models have no score and are not plotted |
+| `models-03-fallback.png` | Models (`/models?developer=alibaba`) — Qwen cache-read rates tagged **input** (two of the four in view), billed at the input rate because their cards list no cache price |
 
 ## Pending re-shoot
 
